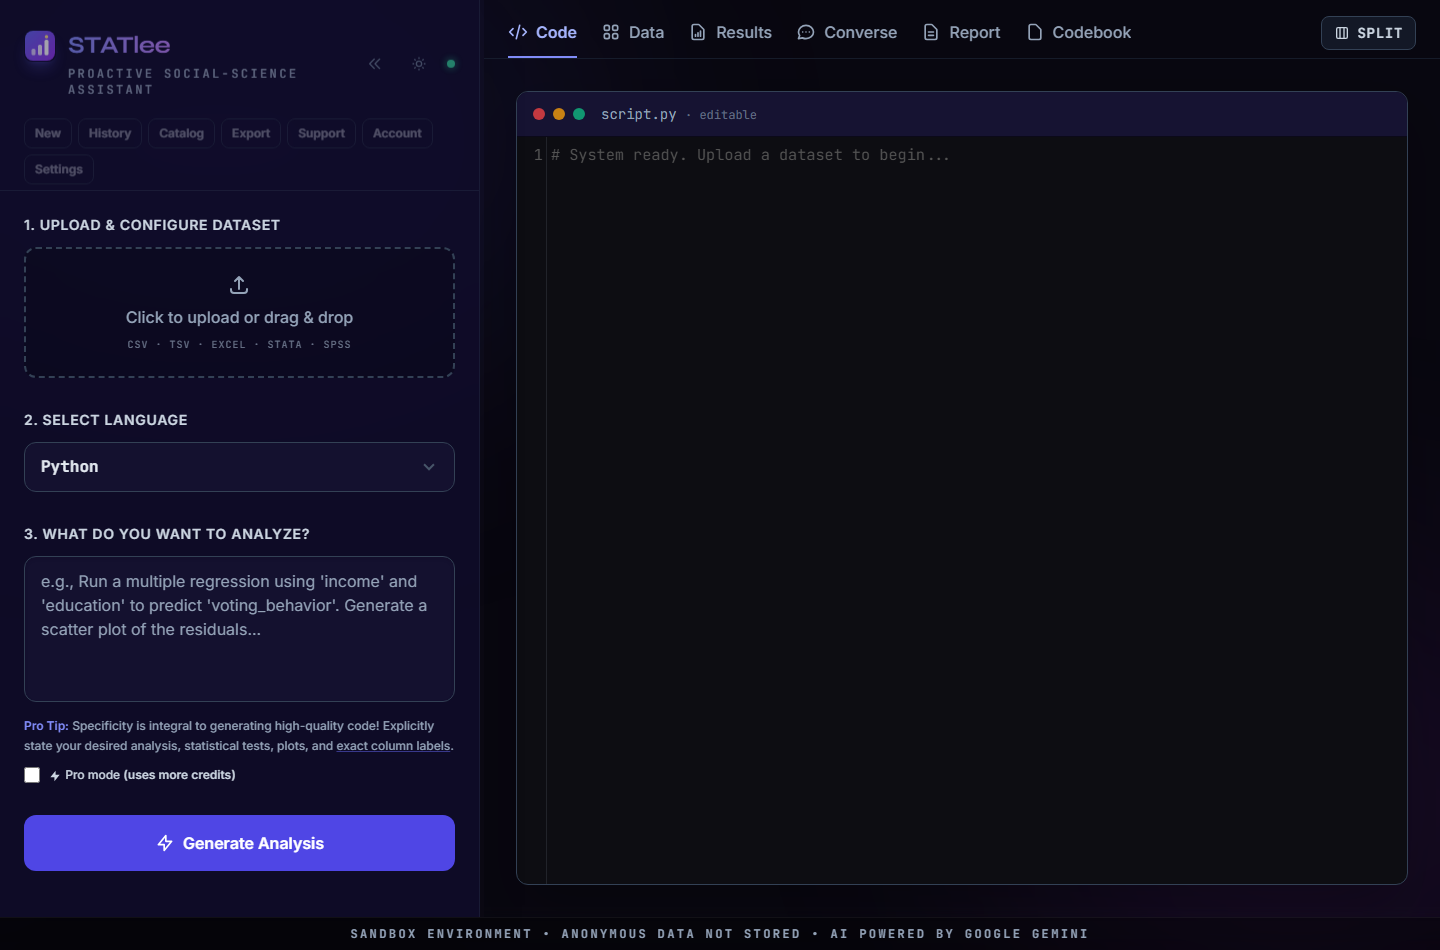
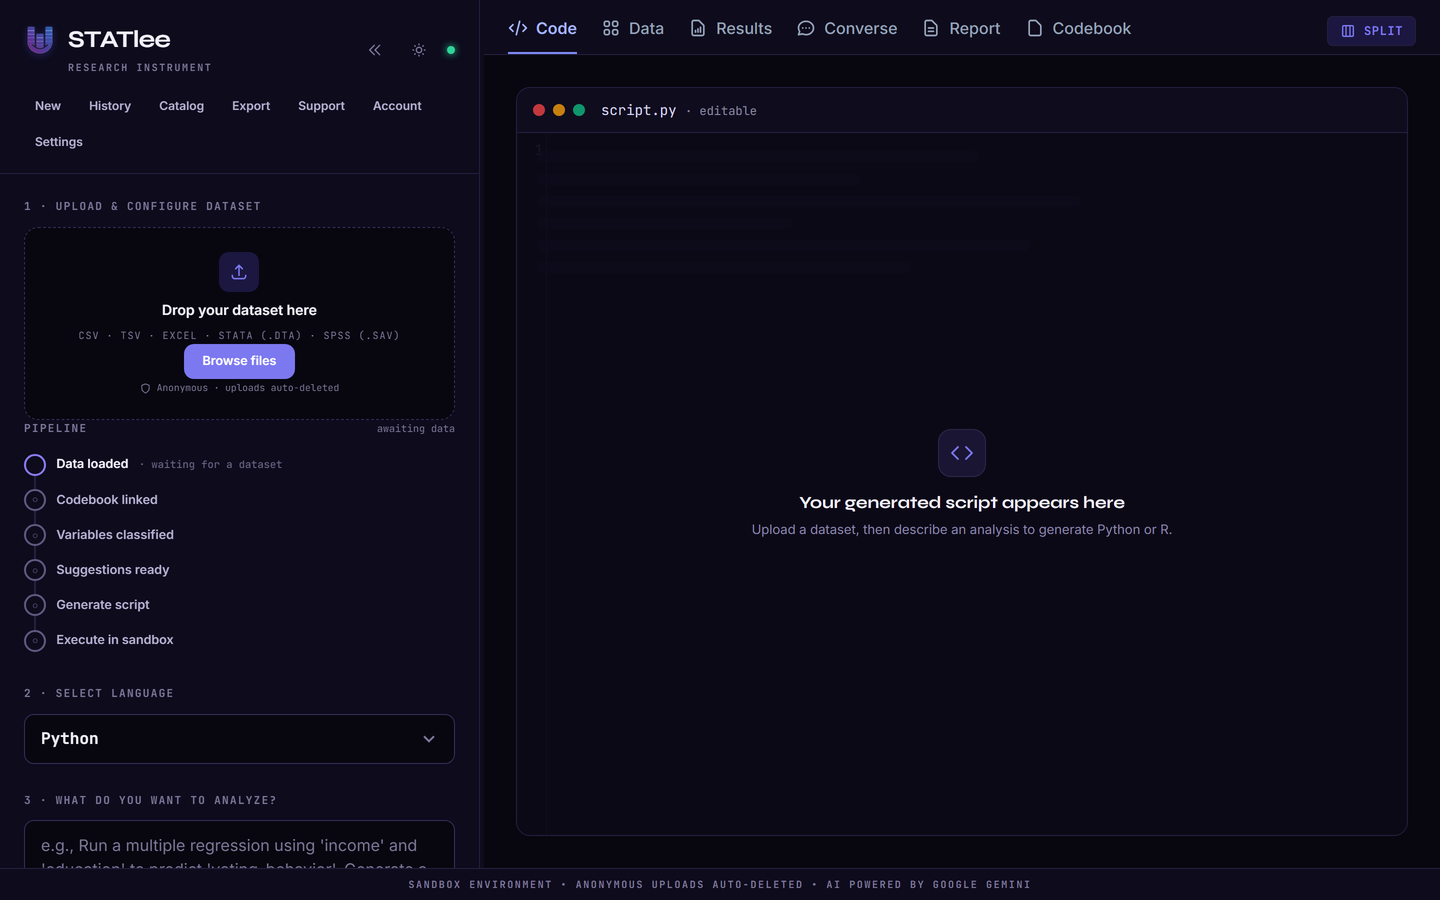
chore(deps): refresh dependencies (google-genai 2.12, redis 8) + README media
F3 dependency refresh: google-genai 1.56->2.12.1, redis 5.2->8.0.1,
anthropic 0.111->0.117, openai 2.43->2.45, matplotlib 3.10->3.11,
filelock 3.25->3.30. The google-genai 2.x major bump changes only its
Interactions API; the generate_content surface used here is unchanged.
Verified: 334 tests, ruff, byte-compile, and pip-audit clean; a google-genai
2.12 API-surface check; limits/redis-8 import compatibility; and a live
Gemini round-trip on the upgraded SDK.

F5 README media: re-recorded demo.gif (900x562, nine beats, 0.8MB) and
app.png against the current v1.3.x UI from a real analysis run on
docs/examples/sample_survey.csv.

Also: CHANGELOG 1.3.2 now covers the test/boot DB-hygiene fix plus this
refresh, and the README test badge/comment corrected 332->334.

diff --git a/CHANGELOG.md b/CHANGELOG.md
@@ -6,7 +6,8 @@ All notable changes to STATlee are recorded here. The format follows
 
 ## [1.3.2] - 2026-07-16
 
-Security hardening for the primary analysis path. No breaking changes.
+Security hardening, a testing/boot-hygiene fix, and a dependency refresh. No
+breaking changes.
 
 ### Security
 - `/chat` now re-moderates the model's own generated script through the
@@ -19,6 +20,24 @@ Security hardening for the primary analysis path. No breaking changes.
   the same "every executed generated script is moderated" invariant. A blocked
   script is not approved or run, and the request's credit (when billing is on)
   is refunded.
+
+### Fixed
+- Running the test suite no longer poisons the instance database. Testing with
+  no `DATABASE_URL` now resolves to in-memory SQLite, so `python -m pytest`
+  followed by an `APP_ENV=development` boot no longer crashes with a
+  duplicate-column error from a half-migrated `instance/statlee.db`.
+
+### Changed
+- Refreshed pinned dependencies to current releases: google-genai 1.56 to
+  2.12, redis 5.2 to 8.0, anthropic 0.111 to 0.117, openai 2.43 to 2.45,
+  matplotlib 3.10 to 3.11, and filelock 3.25 to 3.30. The google-genai 2.x
+  major bump changes only its Interactions API (unused here); the
+  `generate_content` surface the app relies on is unchanged, confirmed by an
+  API-surface check and a live Gemini round-trip on the upgraded SDK.
+
+### Docs
+- Re-recorded the README demo GIF and workspace screenshot against the current
+  v1.3.x interface, from a real analysis run on the bundled sample dataset.
 
 ## [1.3.1] - 2026-07-14
 

diff --git a/README.md b/README.md
@@ -20,7 +20,7 @@
   <img alt="Python 3.11+" src="https://img.shields.io/badge/python-3.11%2B-3776AB?logo=python&logoColor=white">
   <img alt="Flask" src="https://img.shields.io/badge/Flask-app%20factory-000000?logo=flask&logoColor=white">
   <a href="https://github.com/yib7/STATlee/actions/workflows/ci.yml"><img alt="CI" src="https://github.com/yib7/STATlee/actions/workflows/ci.yml/badge.svg"></a>
-  <img alt="Tests" src="https://img.shields.io/badge/tests-332%20passing-3fb950">
+  <img alt="Tests" src="https://img.shields.io/badge/tests-334%20passing-3fb950">
   <img alt="LLM providers" src="https://img.shields.io/badge/LLM-Gemini%20%C2%B7%20Claude%20%C2%B7%20OpenAI-8E75B2">
   <a href="LICENSE"><img alt="License: Elastic 2.0" src="https://img.shields.io/badge/license-Elastic%202.0-005571"></a>
 </p>
@@ -136,7 +136,7 @@ and the documented [`.env.example`](.env.example).
 ```bash
 pip install -r requirements-dev.txt
 ruff check .      # lint
-pytest -q         # 332 tests, fully offline (deterministic fake LLM, no API key)
+pytest -q         # 334 tests, fully offline (deterministic fake LLM, no API key)
 ```
 
 The test suite injects a fake LLM service, so the entire HTTP surface (uploads,